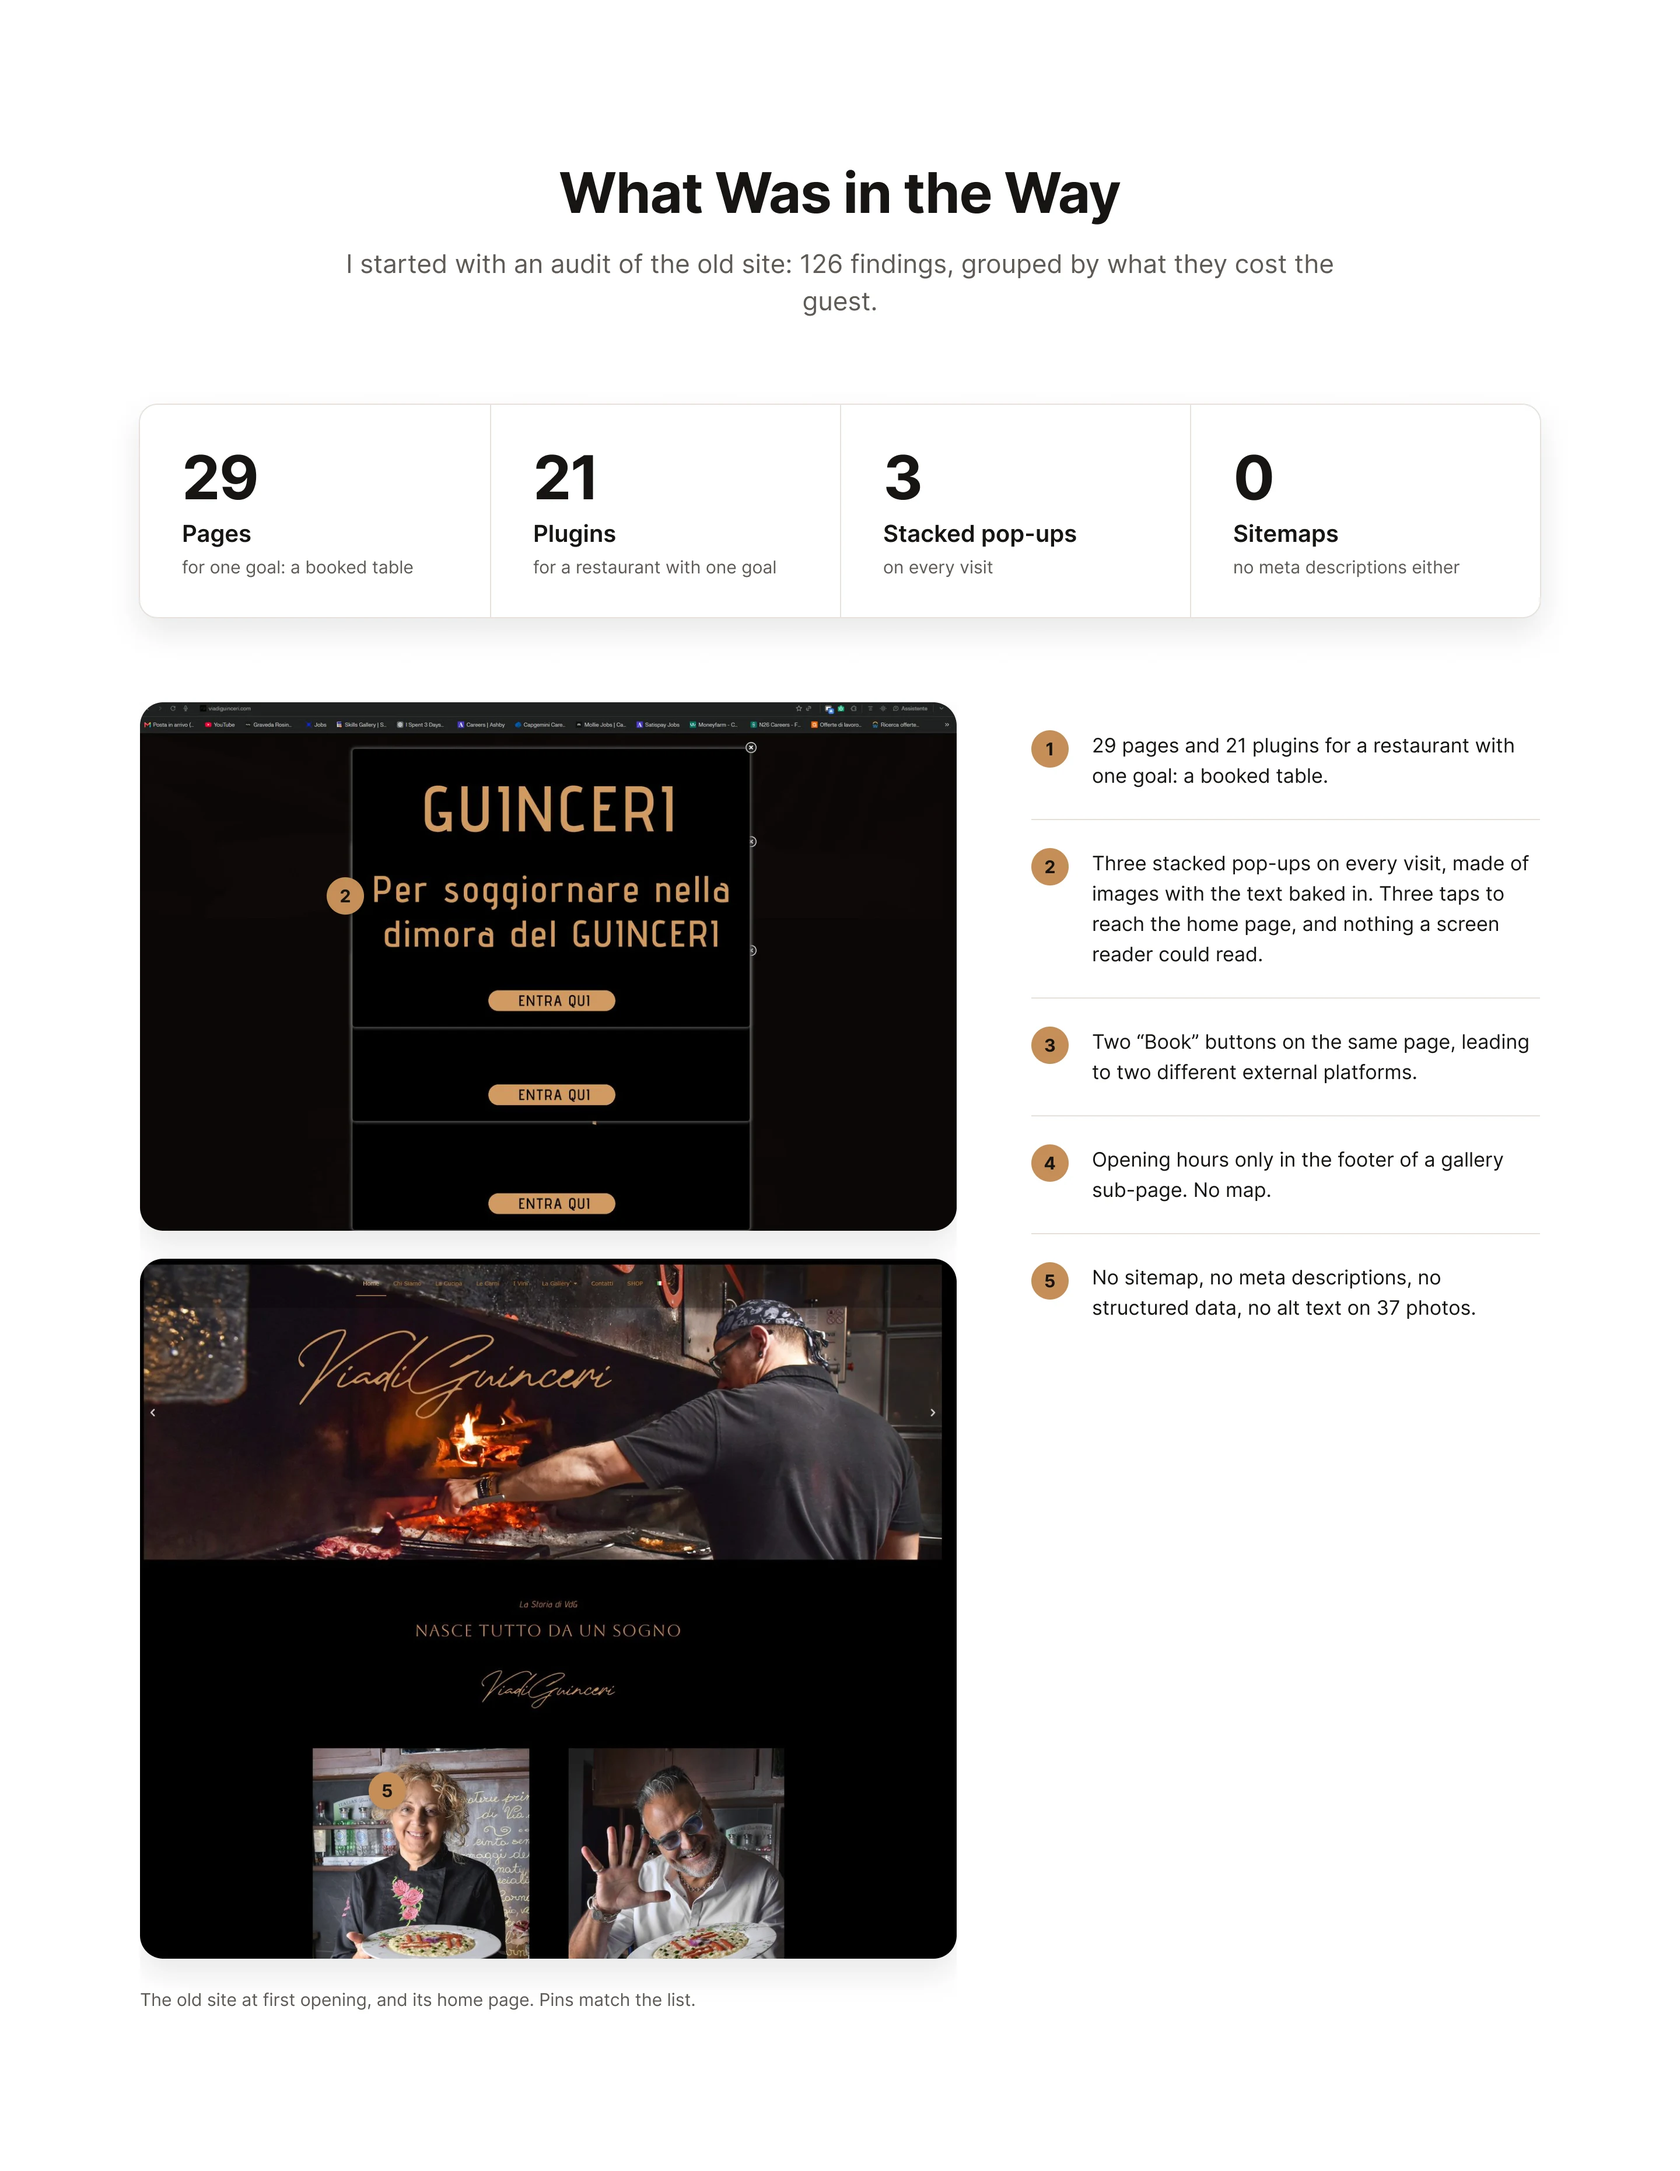
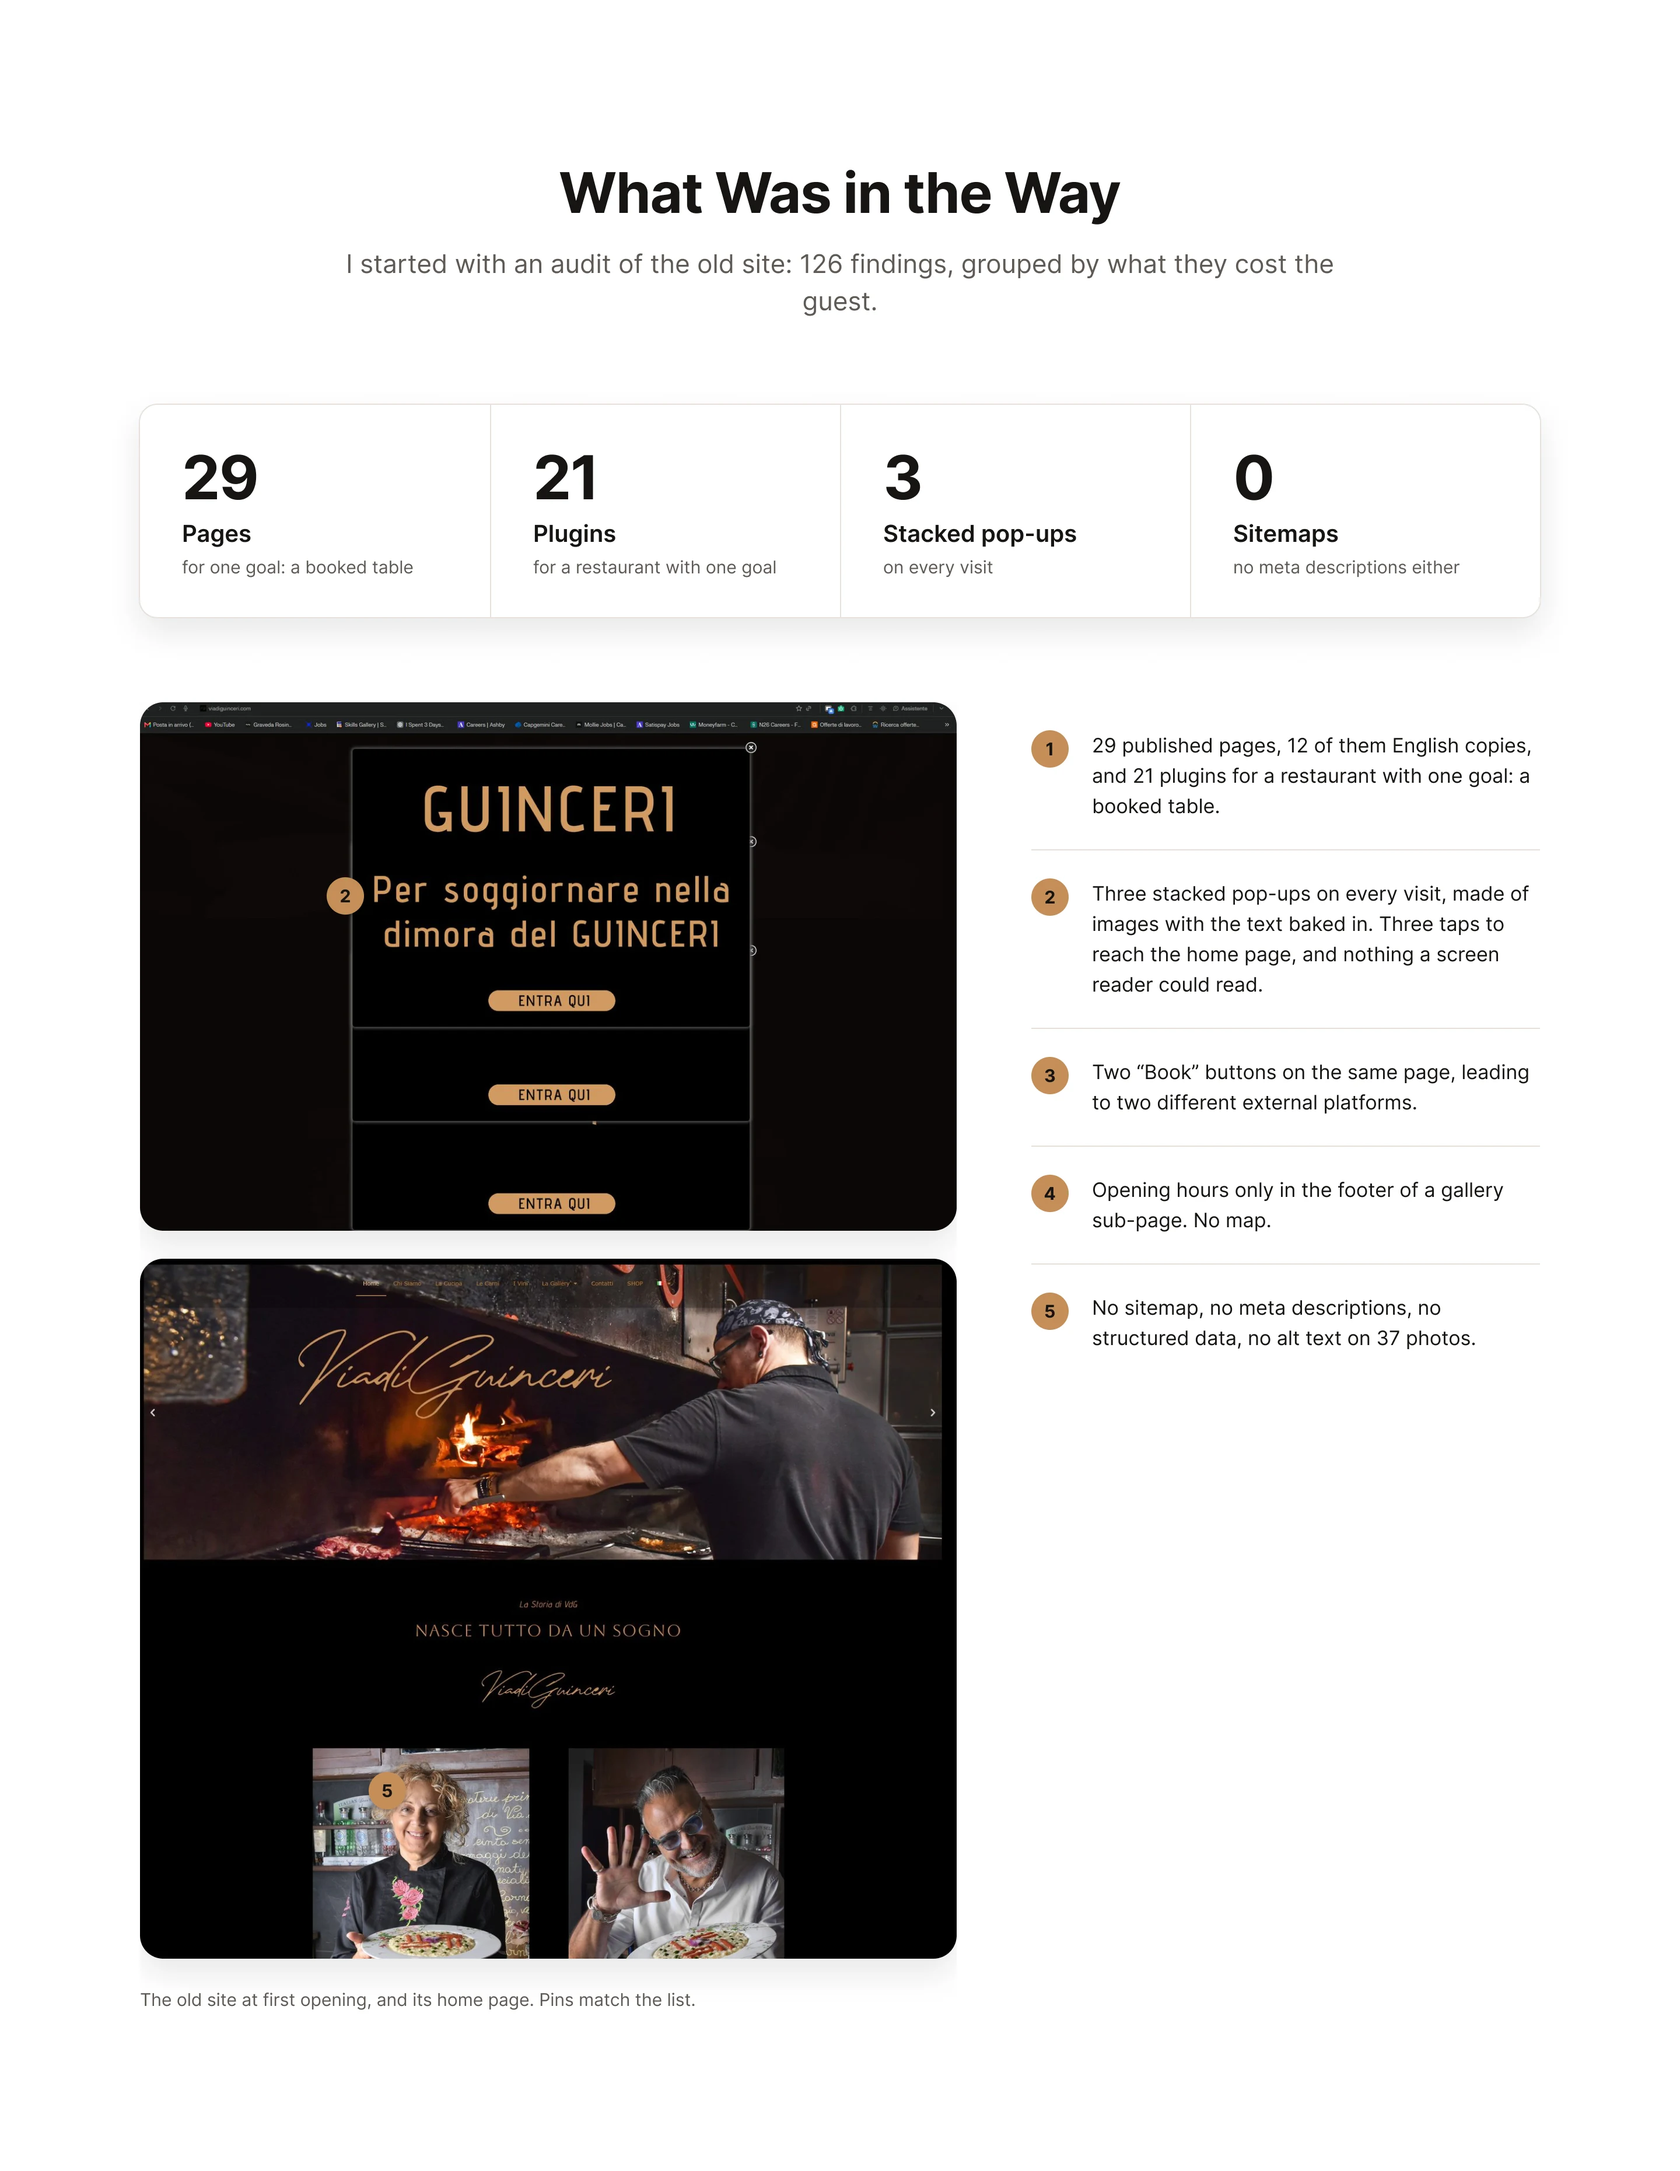
Via di Guinceri: honest page count, 17 Italian pages became 10
The old 29 pages included 12 English copies; compare like with like
(17 pages in Italian vs 10 pages, each in four languages).
Also fixes the English copies chip (12, not 9).

Changed region(s): [[0.5938, 0.3428, 0.9062, 0.6233]]

diff --git a/pages/viadiguinceri/index.js b/pages/viadiguinceri/index.js
@@ -11,10 +11,10 @@ const slices = [
   { filename: 'slice-02.webp', width: 2880, height: 1766, altKey: 'viadiguinceri-alt-02' },
   { filename: 'slice-03.webp?v=2', width: 2880, height: 2962, altKey: 'viadiguinceri-alt-03' },
   { filename: 'slice-04.webp', width: 2880, height: 2312, altKey: 'viadiguinceri-alt-04' },
-  { filename: 'slice-05.webp', width: 2880, height: 3722, altKey: 'viadiguinceri-alt-05' },
+  { filename: 'slice-05.webp?v=2', width: 2880, height: 3722, altKey: 'viadiguinceri-alt-05' },
   { filename: 'slice-06.webp', width: 2880, height: 2941, altKey: 'viadiguinceri-alt-06' },
   { filename: 'slice-07.webp', width: 2880, height: 2996, altKey: 'viadiguinceri-alt-07' },
-  { filename: 'slice-08.webp', width: 2880, height: 3774, altKey: 'viadiguinceri-alt-08' },
+  { filename: 'slice-08.webp?v=2', width: 2880, height: 3838, altKey: 'viadiguinceri-alt-08' },
   { filename: 'slice-09.webp', width: 2880, height: 3126, altKey: 'viadiguinceri-alt-09' },
   { filename: 'slice-10.webp', width: 2880, height: 1604, altKey: 'viadiguinceri-alt-10' },
   { filename: 'slice-11.webp?v=2', width: 2880, height: 2881, altKey: 'viadiguinceri-alt-11' },
